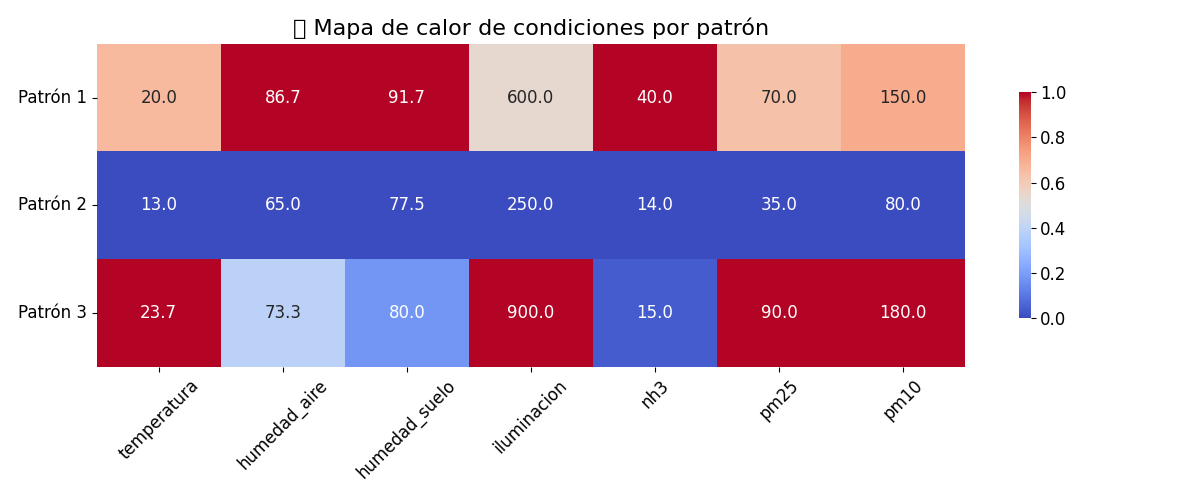
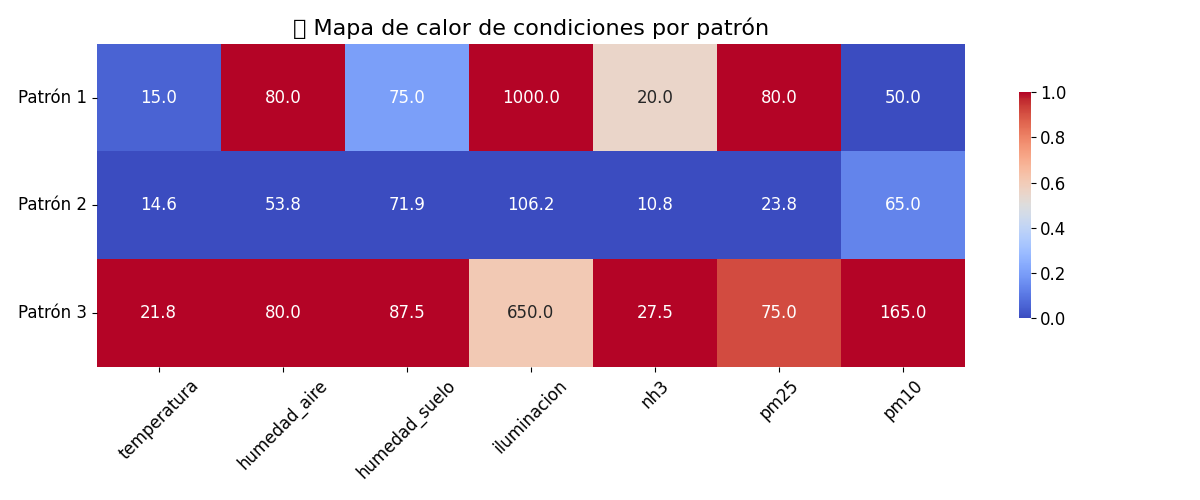
deploy: 3ffd7946b9c464c9d48740fe014449970bf406ea

diff --git a/informe.html b/informe.html
@@ -1,11 +1,11 @@
 
 <html><head><meta charset='utf-8'><title>Informe IoT</title></head><body>
 <h1>📊 Informe Automático IoT - Granjas Avícolas</h1>
-<p>📅 Fecha: 2025-07-11 00:21</p>
+<p>📅 Fecha: 2025-07-11 00:29</p>
 
 <h2>📌 Agrupación de comportamientos</h2>
 <img src='clusters.png' width='600'><br><br>
-<ul><li><span style='color:red'><b>Patrón 1</b>: 🟠 Polvo y NH₃ elevados: alerta respiratoria.</span></li><li><span style='color:blue'><b>Patrón 2</b>: ℹ Combinación atípica: requiere seguimiento técnico.</span></li><li><span style='color:green'><b>Patrón 3</b>: ⚫ Contaminación crítica: niveles peligrosos de polvo. Ventilación urgente.</span></li></ul>
+<ul><li><span style='color:red'><b>Patrón 1</b>: ⚫ Contaminación crítica: niveles peligrosos de polvo. Ventilación urgente.</span></li><li><span style='color:blue'><b>Patrón 2</b>: 🟣 Oscuridad prolongada: baja iluminación. Posible letargo o baja actividad.</span></li><li><span style='color:green'><b>Patrón 3</b>: 🟠 Polvo y NH₃ elevados: alerta respiratoria.</span></li></ul>
 
 <h2>📈 Tendencias principales</h2>
 <img src='tendencia.png' width='600'><br><br>
